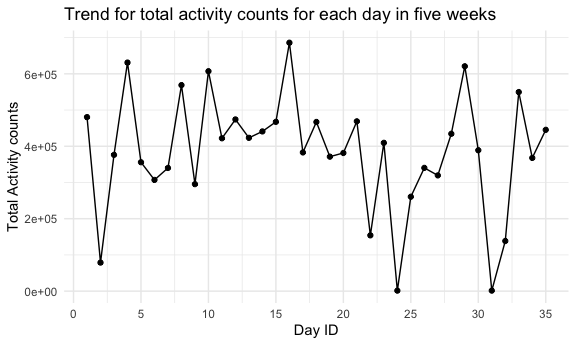
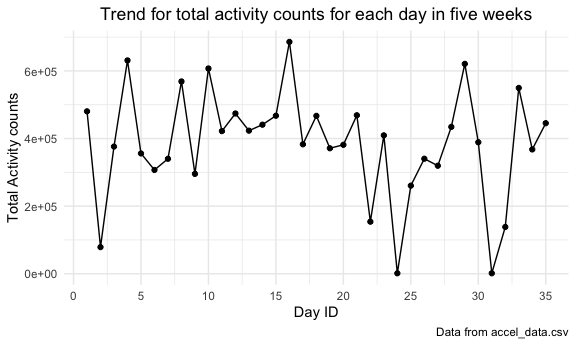
Problem 3 - 24 hour activity time course

diff --git a/p8105_hw3_yj2686.md b/p8105_hw3_yj2686.md
@@ -155,7 +155,6 @@ brfss_df = brfss_smart2010 %>%
   arrange(response) %>% 
   select(-locationabbr)
   ##select(-locationabbr, -class, -topic,  -question, -c(confidence_limit_low:geo_location))
-brfss_df %>% view()
 ```
 
 1.  In 2002, which states were observed at 7 or more locations? What
@@ -259,15 +258,16 @@ geom\_line geometry and group aesthetic will help).
 ``` r
 excellent_df %>% 
   ggplot(aes(x = year, y = mean_data_value, color = state)) +
-  geom_line(alpha = .4, aes(group = state, color = state)) +
-  geom_point(alpha = .4, aes(group = state, color = state)) +
+  geom_line(alpha = .5, aes(group = state, color = state)) +
+  geom_point(alpha = .5, aes(group = state, color = state)) +
   theme(axis.text.x = element_text(size = 10), legend.position = "right") +
   labs(
     title = "Average data value of Excellent responses over time in different states",
     x = "Year",
     y = "Mean data value of Excellent responses",
     caption = "Data from brfss_smart2010"
-  )
+  ) +
+  theme(plot.title = element_text(hjust = 0.5))
 ```
 
 <img src="p8105_hw3_yj2686_files/figure-gfm/unnamed-chunk-11-1.png" width="90%" />
@@ -312,12 +312,13 @@ accel_df = read.csv("./accel_data.csv") %>%
   janitor::clean_names() %>% 
   pivot_longer(
     cols = activity_1:activity_1440,
-    names_to = "activity_number",
+    names_to = "minute",
     values_to = "activity_counts",
     names_prefix = "activity_"
   ) %>% 
   mutate(
-    weekend_or_weekday = if_else((day == "Saturday" | day == "Sunday"),"weekend","weekday")
+    weekend_or_weekday = if_else((day == "Saturday" | day == "Sunday"),"weekend","weekday"),
+    minute = as.numeric(minute)
   )
 
 
@@ -325,26 +326,26 @@ accel_df
 ```
 
     ## # A tibble: 50,400 × 6
-    ##     week day_id day    activity_number activity_counts weekend_or_weekday
-    ##    <int>  <int> <chr>  <chr>                     <dbl> <chr>             
-    ##  1     1      1 Friday 1                          88.4 weekday           
-    ##  2     1      1 Friday 2                          82.2 weekday           
-    ##  3     1      1 Friday 3                          64.4 weekday           
-    ##  4     1      1 Friday 4                          70.0 weekday           
-    ##  5     1      1 Friday 5                          75.0 weekday           
-    ##  6     1      1 Friday 6                          66.3 weekday           
-    ##  7     1      1 Friday 7                          53.8 weekday           
-    ##  8     1      1 Friday 8                          47.8 weekday           
-    ##  9     1      1 Friday 9                          55.5 weekday           
-    ## 10     1      1 Friday 10                         43.0 weekday           
+    ##     week day_id day    minute activity_counts weekend_or_weekday
+    ##    <int>  <int> <chr>   <dbl>           <dbl> <chr>             
+    ##  1     1      1 Friday      1            88.4 weekday           
+    ##  2     1      1 Friday      2            82.2 weekday           
+    ##  3     1      1 Friday      3            64.4 weekday           
+    ##  4     1      1 Friday      4            70.0 weekday           
+    ##  5     1      1 Friday      5            75.0 weekday           
+    ##  6     1      1 Friday      6            66.3 weekday           
+    ##  7     1      1 Friday      7            53.8 weekday           
+    ##  8     1      1 Friday      8            47.8 weekday           
+    ##  9     1      1 Friday      9            55.5 weekday           
+    ## 10     1      1 Friday     10            43.0 weekday           
     ## # … with 50,390 more rows
 
 Describe the resulting dataset:
 
 The accel\_df contains 50400 observations of activity (accelerometer
-data), and there are 6 variables, which are week, day\_id, day,
-activity\_number, activity\_counts, weekend\_or\_weekday that describing
-the information of data.
+data), and there are 6 variables, which are week, day\_id, day, minute,
+activity\_counts, weekend\_or\_weekday that describing the information
+of data.
 
 Traditional analyses of accelerometer data focus on the total activity
 over the day. Using your tidied dataset, aggregate accross minutes to
@@ -404,12 +405,38 @@ ggplot(total_activity_df,aes(x = day_id, y = total_activity)) +
   labs(
     title = "Trend for total activity counts for each day in five weeks",
     x = "Day ID",
-    y = "Total Activity counts"
+    y = "Total Activity counts",
+    caption = "Data from accel_data.csv"
   ) +
-  scale_x_continuous(breaks = c(0, 5, 10, 15, 20, 25, 30, 35))
+  scale_x_continuous(breaks = seq(0,35,by = 5)) +
+  theme(plot.title = element_text(hjust = 0.5))
 ```
 
 <img src="p8105_hw3_yj2686_files/figure-gfm/unnamed-chunk-15-1.png" width="90%" />
 
 The trend of total activity counts for each day is dramatically changed
 over five weeks.
+
+Accelerometer data allows the inspection activity over the course of the
+day. Make a single-panel plot that shows the 24-hour activity time
+courses for each day and use color to indicate day of the week. Describe
+in words any patterns or conclusions you can make based on this graph.
+
+``` r
+accel_df %>% 
+  ggplot(aes(x = minute, y = activity_counts, color = day)) +
+  geom_point(alpha = .5) +
+  geom_line(alpha = .3) +
+  scale_x_continuous(breaks = seq(0,1440,by = 60),
+                     label = seq(0,24,by = 1),
+                     limits = c(0,1440)) +
+  labs(
+    title = "24-hour activity time courses for each day of the week",
+    x = "Hours",
+    y = "Activity counts",
+    caption = "Data from accel_data.csv"
+  ) +
+  theme(plot.title = element_text(hjust = 0.5))
+```
+
+<img src="p8105_hw3_yj2686_files/figure-gfm/unnamed-chunk-16-1.png" width="90%" />
